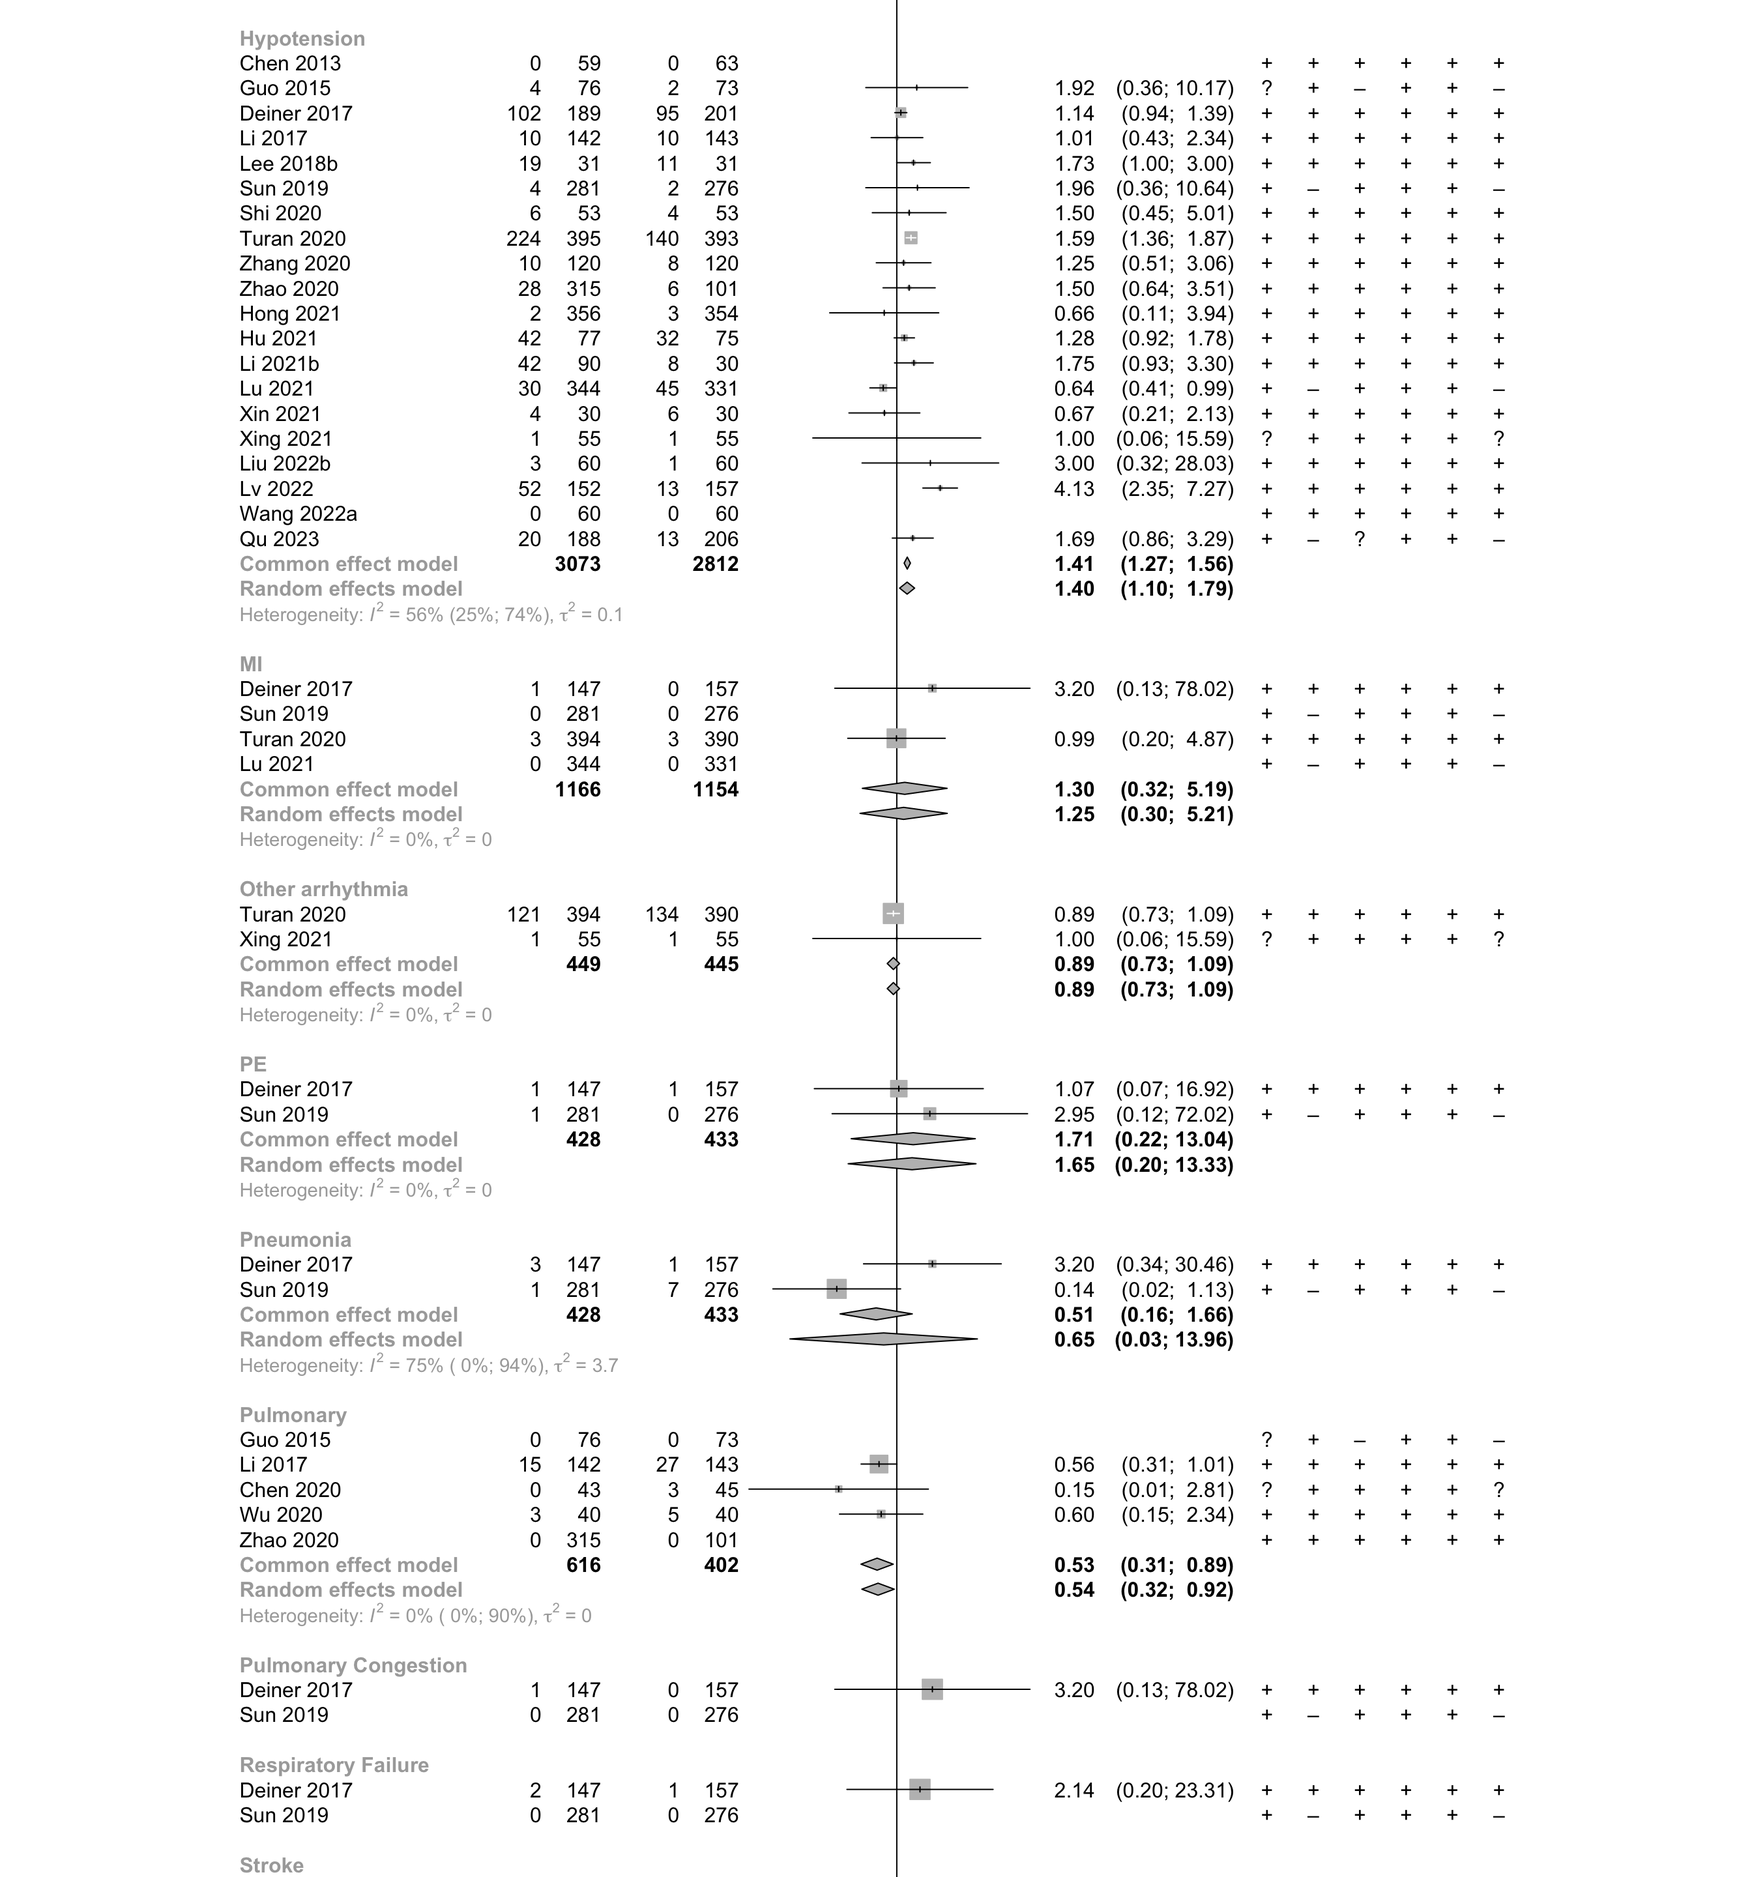
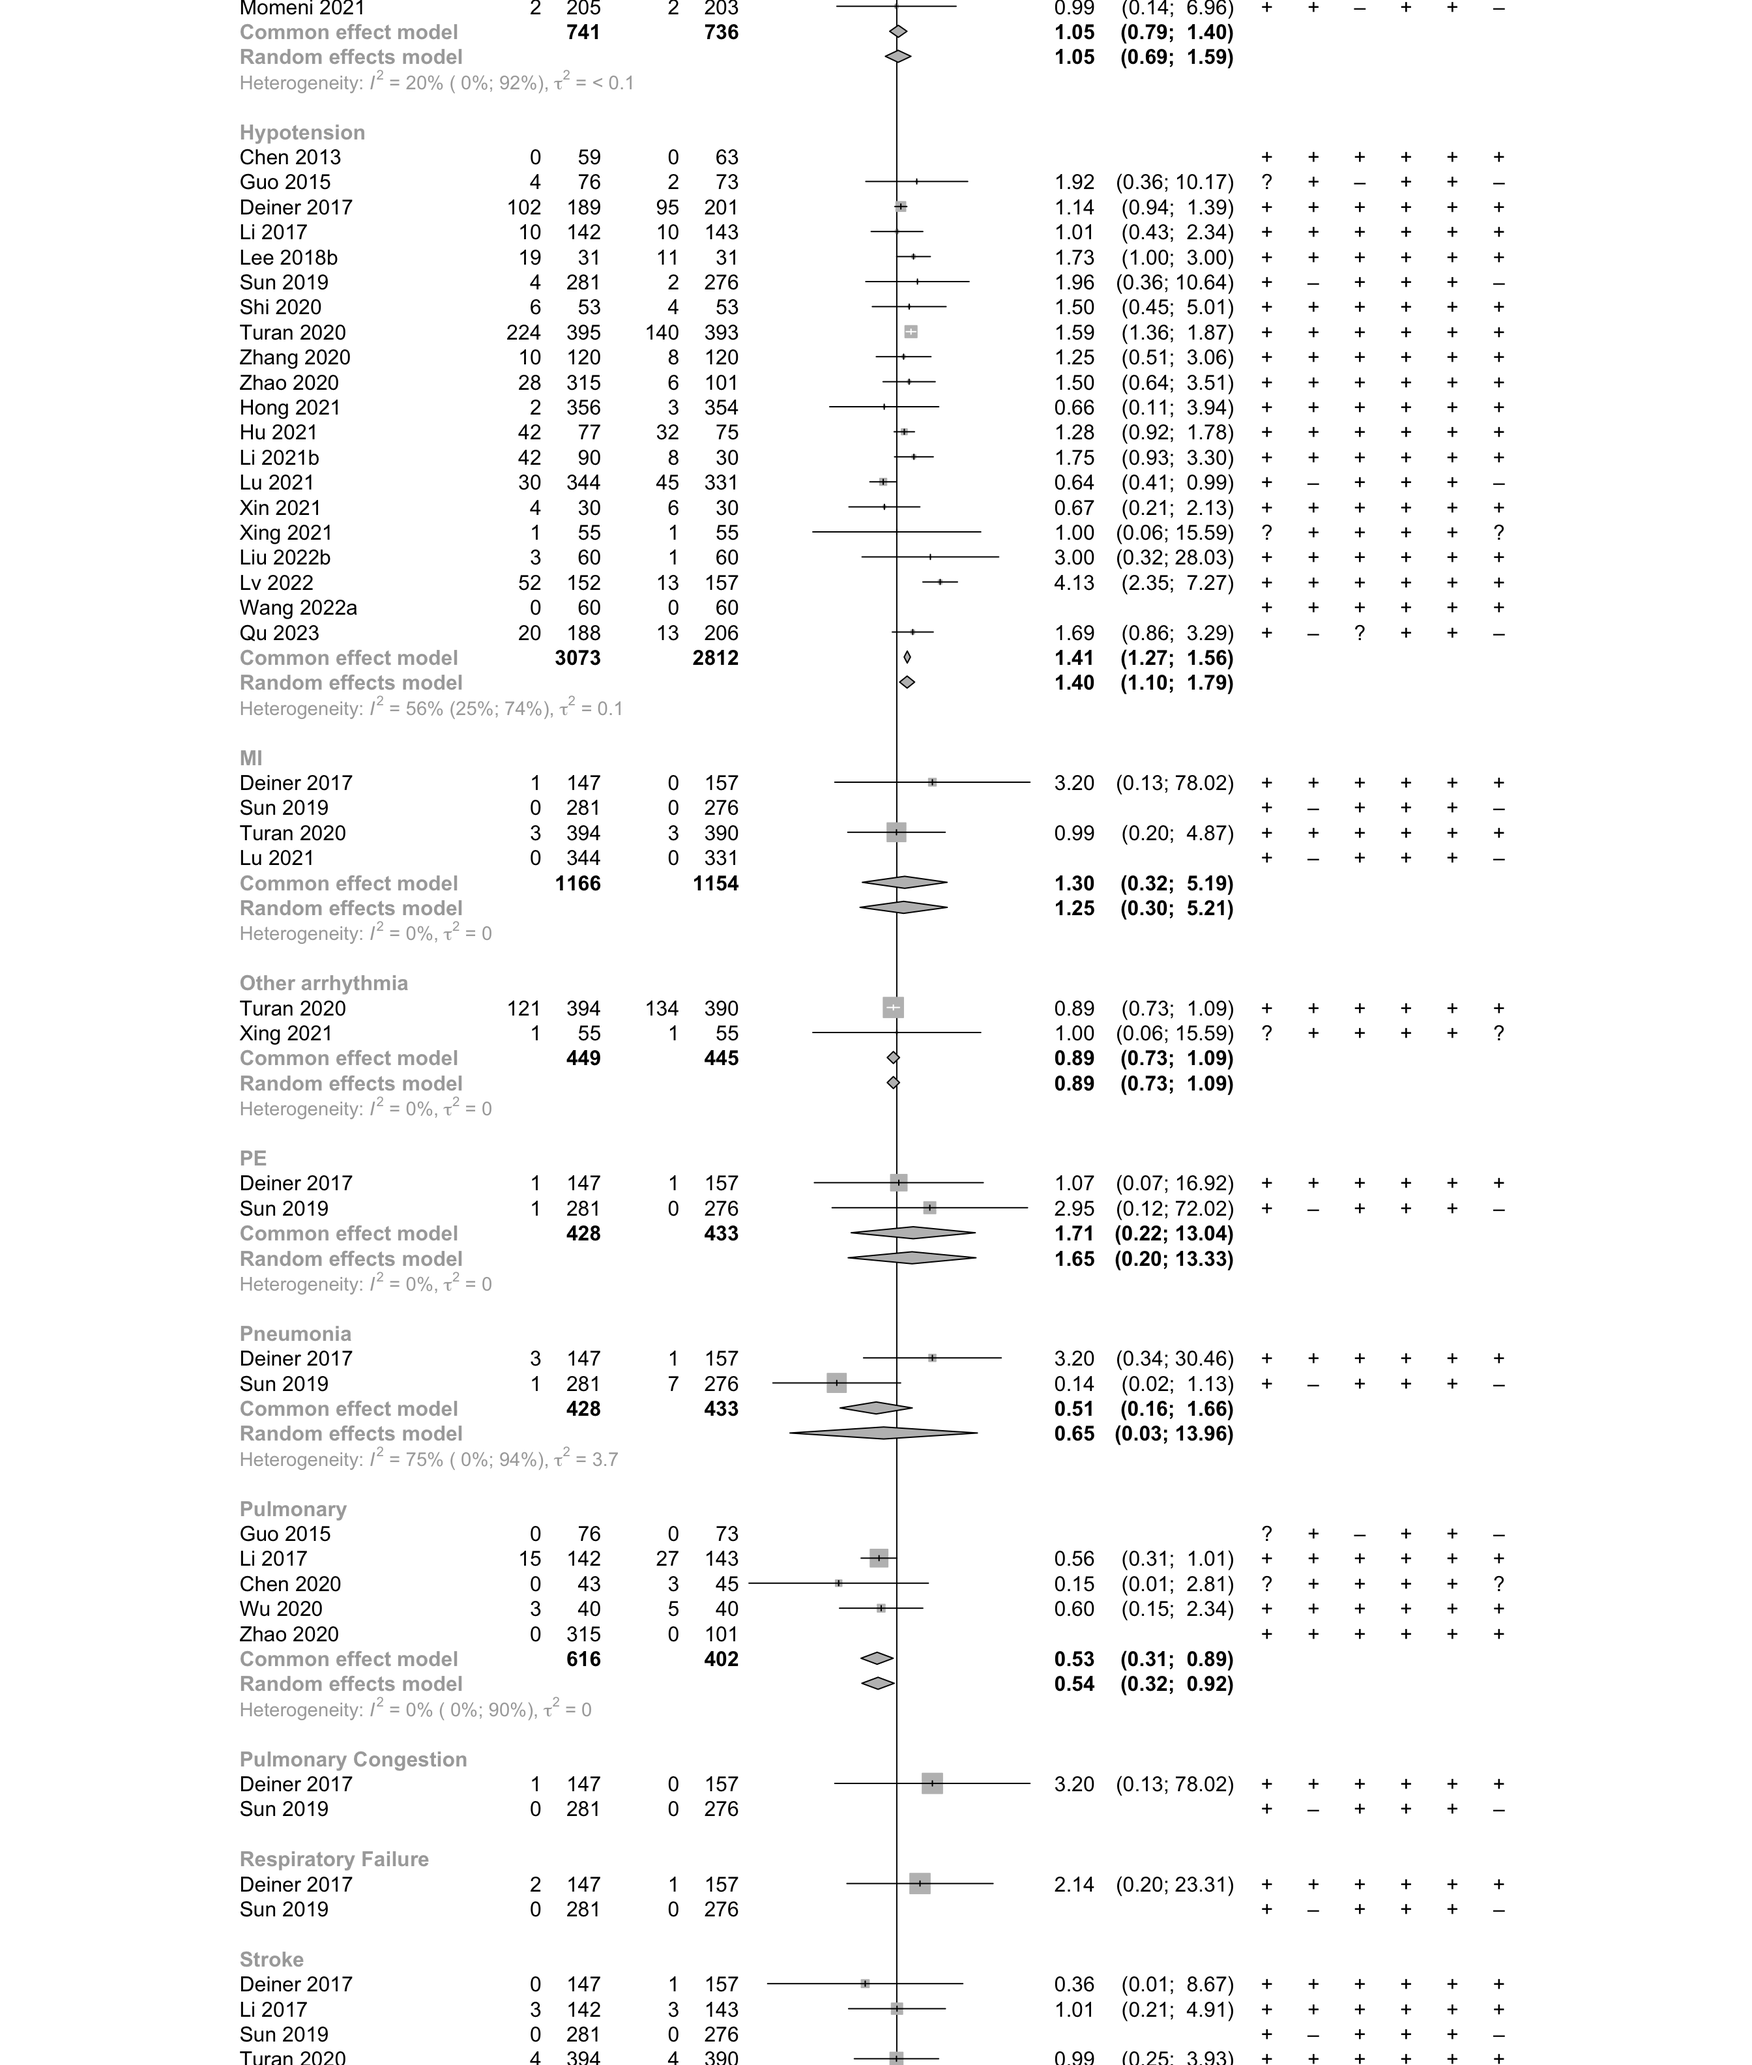
figure update

diff --git a/docs/kq6.html b/docs/kq6.html
@@ -20560,7 +20560,7 @@ div.csl-indent {
 <div class="cell-output-display">
 <div class="quarto-figure quarto-figure-left">
 <figure class="figure">
-<p><img src="kq6_files/figure-html/complication_hypo_meta-1.png" class="img-fluid figure-img" width="1344"></p>
+<p><img src="kq6_files/figure-html/complication_hypo_meta-1.png" class="img-fluid figure-img" width="1392"></p>
 </figure>
 </div>
 </div>
